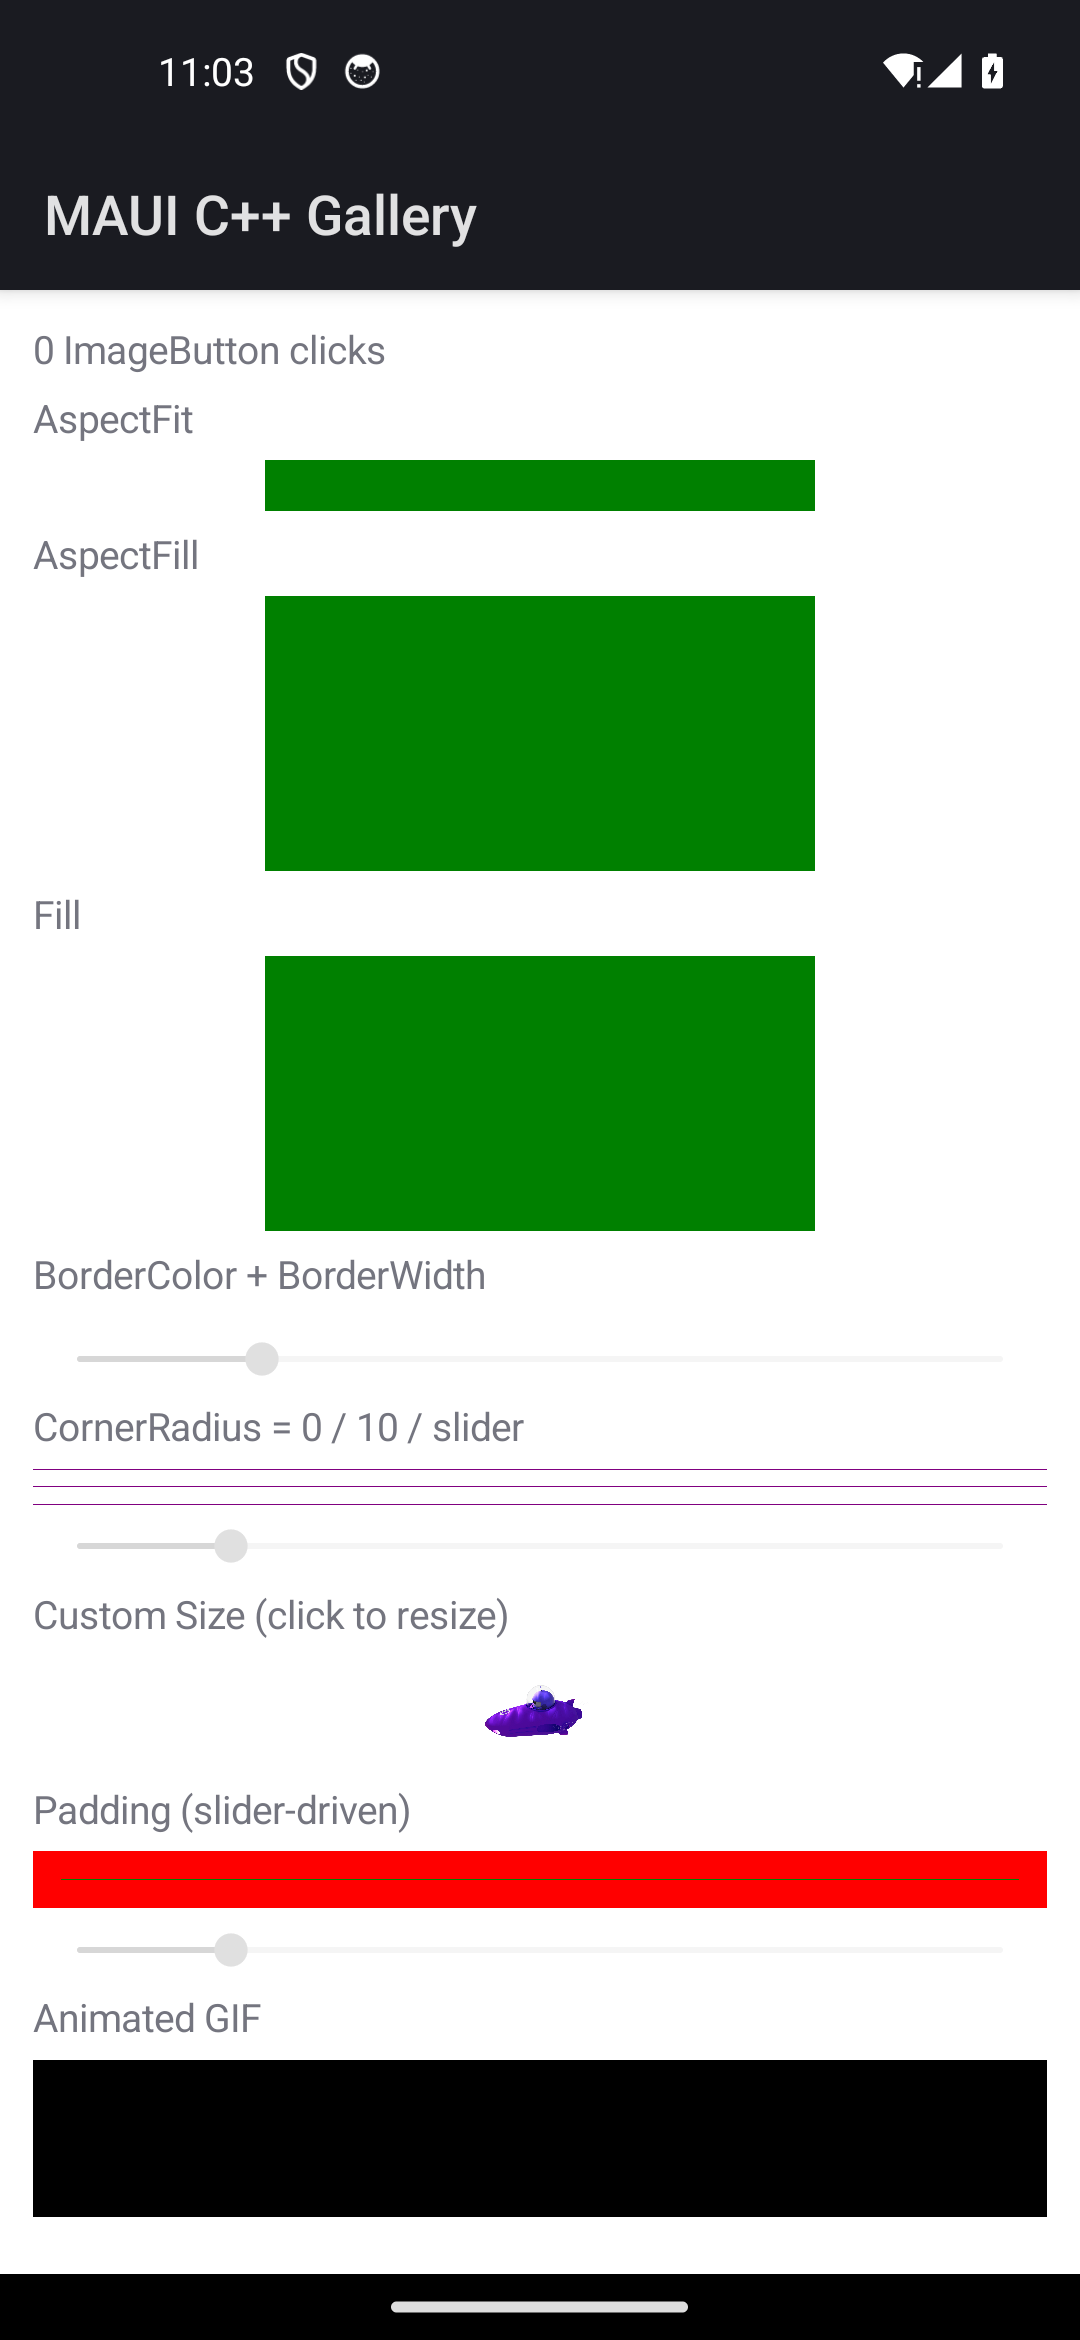
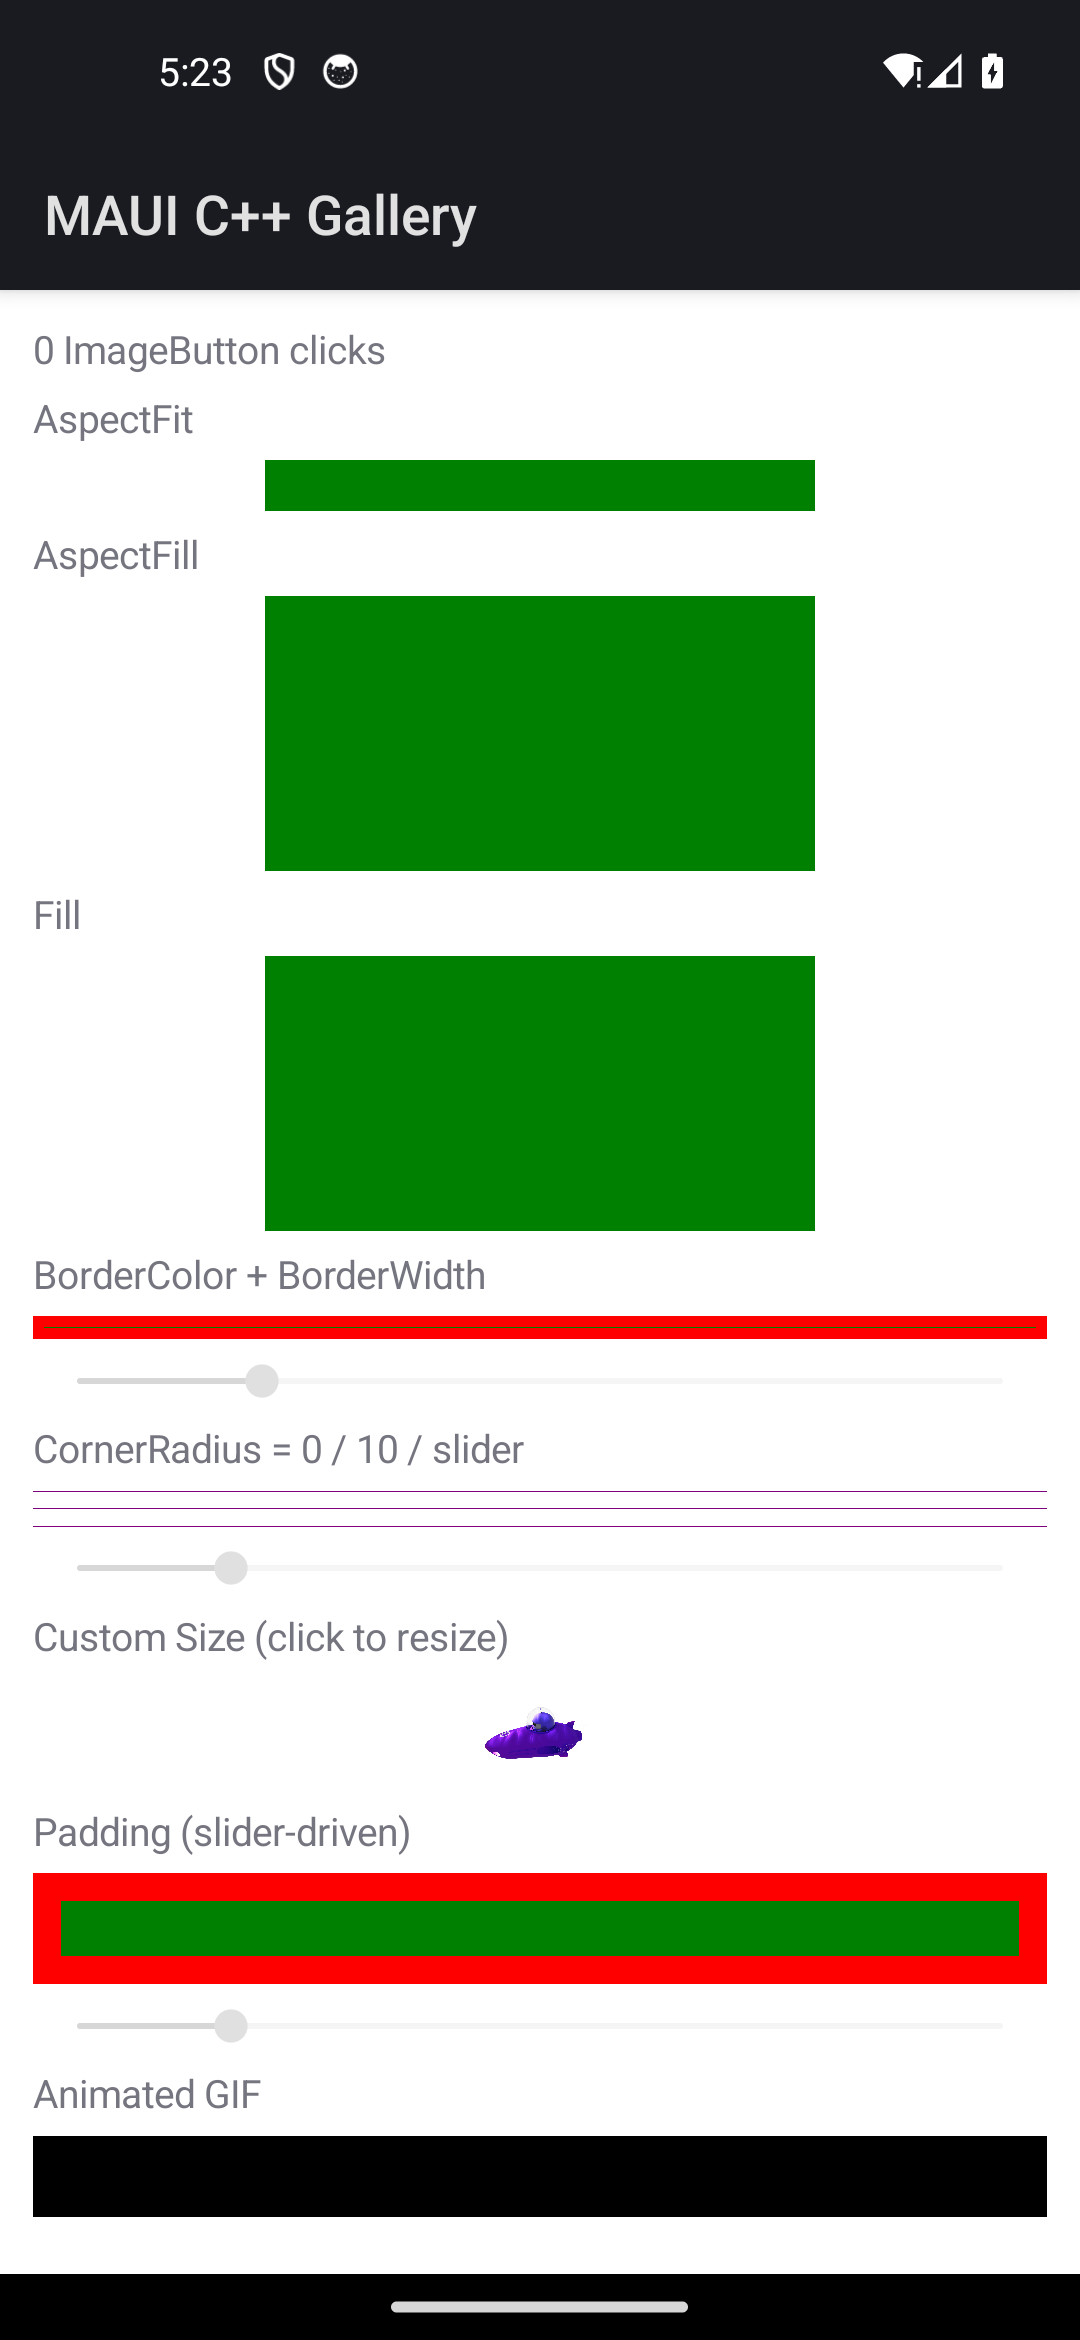
fix(android): ImageButton folds stroke width into content padding (border button renders)
The Android image_button_handler pushed the developer Padding straight to
setPadding, omitting C#'s ImageButtonExtensions.UpdatePadding rule that adds the
stroke width as additional content padding. A BorderColor+BorderWidth ImageButton
with no Padding, no size request, and an undecodable cog.png therefore measured to
0x0 on the bare MauiImageView and vanished — the parity RED (missing red border).

Mirror the C# path: new apply_padding() helper adds stroke_thickness (when >0) to
every padding edge, and map_stroke_thickness / map_corner_radius re-run it (C#'s
MapStrokeThickness/MapCornerRadius each UpdateValue(nameof(IImageButton.Padding))).
The border-only button now reserves 2xstrokeWidth and renders as the thin red bar
MAUI shows; the padding button now frames a visible green fill. cog.png stays
absent (SVG decode is a documented deferral). Android-only; button_handler
untouched. Headless image_button 20/20; emulator-recaptured cpp/image_button.png.

Changed region(s): [[0.0306, 0.7487, 0.9778, 0.9359], [0.0306, 0.5615, 0.9778, 0.7487], [0.2444, 0.0, 0.3361, 0.0624]]

diff --git a/port/cpp/src/platform/android/image_button_handler.cpp b/port/cpp/src/platform/android/image_button_handler.cpp
@@ -342,6 +342,38 @@ namespace
         clear_pending(env);
     }
 
+    // Push the effective content padding onto the ImageView (the button partial has no analog — this is
+    // ImageButtonExtensions.UpdatePadding, unique to the ImageButton). C# adds the STROKE WIDTH to the
+    // developer's Padding as "additional padding" (SetContentPadding = padding + strokeWidth on every side),
+    // then zeroes View.setPadding — because ShapeableImageView's content-padding and the stroke overlap. On
+    // this bare-ImageView backend there is no content-padding channel, so the combined value rides the plain
+    // setPadding directly. The stroke contribution is exactly GetStrokeProperties' strokeWidth: the set
+    // StrokeThickness when a border is present (thickness > 0), else 0 — so a BorderWidth-only ImageButton
+    // (no Padding, no size request, an undecodable cog.png) still measures to 2×strokeWidth and renders as
+    // the thin red bar MAUI shows, instead of collapsing to 0×0 and vanishing. (C#'s "StrokeColor set but
+    // thickness unset → 1dp default" sub-case has no page witness and the port carries no stroke-color-set
+    // flag, so thickness>0 is the faithful, contained rule — documented deviation.) A NaN Padding keeps the
+    // View default (0) with no stroke add, exactly as MapPadding's NaN gate does.
+    void apply_padding(JNIEnv* env, jobject widget, const maui::core::image_button_platform& platform)
+    {
+        if (platform.padding.is_nan())
+        {
+            return;
+        }
+        const double stroke_extra = platform.stroke_thickness > 0 ? platform.stroke_thickness : 0.0;
+        const float density = display_density(env, widget);
+        jmethodID set_padding = default_jni_cache().method(env, k_image_view_class, "setPadding", "(IIII)V");
+        if (set_padding == nullptr)
+        {
+            return;
+        }
+        env->CallVoidMethod(widget, set_padding, to_pixels(platform.padding.left + stroke_extra, density),
+                            to_pixels(platform.padding.top + stroke_extra, density),
+                            to_pixels(platform.padding.right + stroke_extra, density),
+                            to_pixels(platform.padding.bottom + stroke_extra, density));
+        clear_pending(env);
+    }
+
     // ---- source bytes: APK asset → on-disk file (the image partial's resolver verbatim) ----
     [[nodiscard]] maui::core::image_bytes drain_input_stream(JNIEnv* env, jobject stream)
     {
@@ -916,22 +948,10 @@ namespace maui::core
         {
             return;
         }
-        jobject widget = widget_of(*platform);
-        // UIButtonExtensions.UpdatePadding → SetPadding (the android Button's MapPadding shape); NaN keeps
-        // the View default (0) — ImageButton has no Material default-padding derivation, so no fallback.
-        maui::core::thickness padding = view.padding();
-        if (padding.is_nan())
-        {
-            return;
-        }
-        const float density = display_density(env.get(), widget);
-        jmethodID set_padding = default_jni_cache().method(env.get(), k_image_view_class, "setPadding", "(IIII)V");
-        if (set_padding != nullptr)
-        {
-            env->CallVoidMethod(widget, set_padding, to_pixels(padding.left, density), to_pixels(padding.top, density),
-                                to_pixels(padding.right, density), to_pixels(padding.bottom, density));
-            clear_pending(env.get());
-        }
+        // ImageButtonExtensions.UpdatePadding → SetContentPadding(padding + strokeWidth) (the ImageButton's
+        // MapPadding shape, distinct from the Button's plain SetPadding): the stroke width is folded into the
+        // content padding so a bordered button reserves room for its stroke. NaN keeps the View default (0).
+        apply_padding(env.get(), widget_of(*platform), *platform);
     }
 
     // MapStrokeColor / MapStrokeThickness / MapCornerRadius all push onto the SAME shared chrome
@@ -971,6 +991,10 @@ namespace maui::core
         if (env)
         {
             apply_stroke_and_corner(env.get(), widget_of(*platform), *platform);
+            // C#'s MapStrokeThickness re-runs MapPadding (handler.UpdateValue(nameof(IImageButton.Padding)))
+            // because the stroke width folds into content padding — so a new border thickness re-reserves its
+            // room, and a border-only button gains a non-zero measured size.
+            apply_padding(env.get(), widget_of(*platform), *platform);
         }
     }
 
@@ -990,6 +1014,9 @@ namespace maui::core
         if (env)
         {
             apply_stroke_and_corner(env.get(), widget_of(*platform), *platform);
+            // C#'s MapCornerRadius also re-runs MapPadding (the stroke/corner/padding recompute is
+            // intertwined); harmless when the stroke is unchanged, and keeps the content padding coherent.
+            apply_padding(env.get(), widget_of(*platform), *platform);
         }
     }
 
